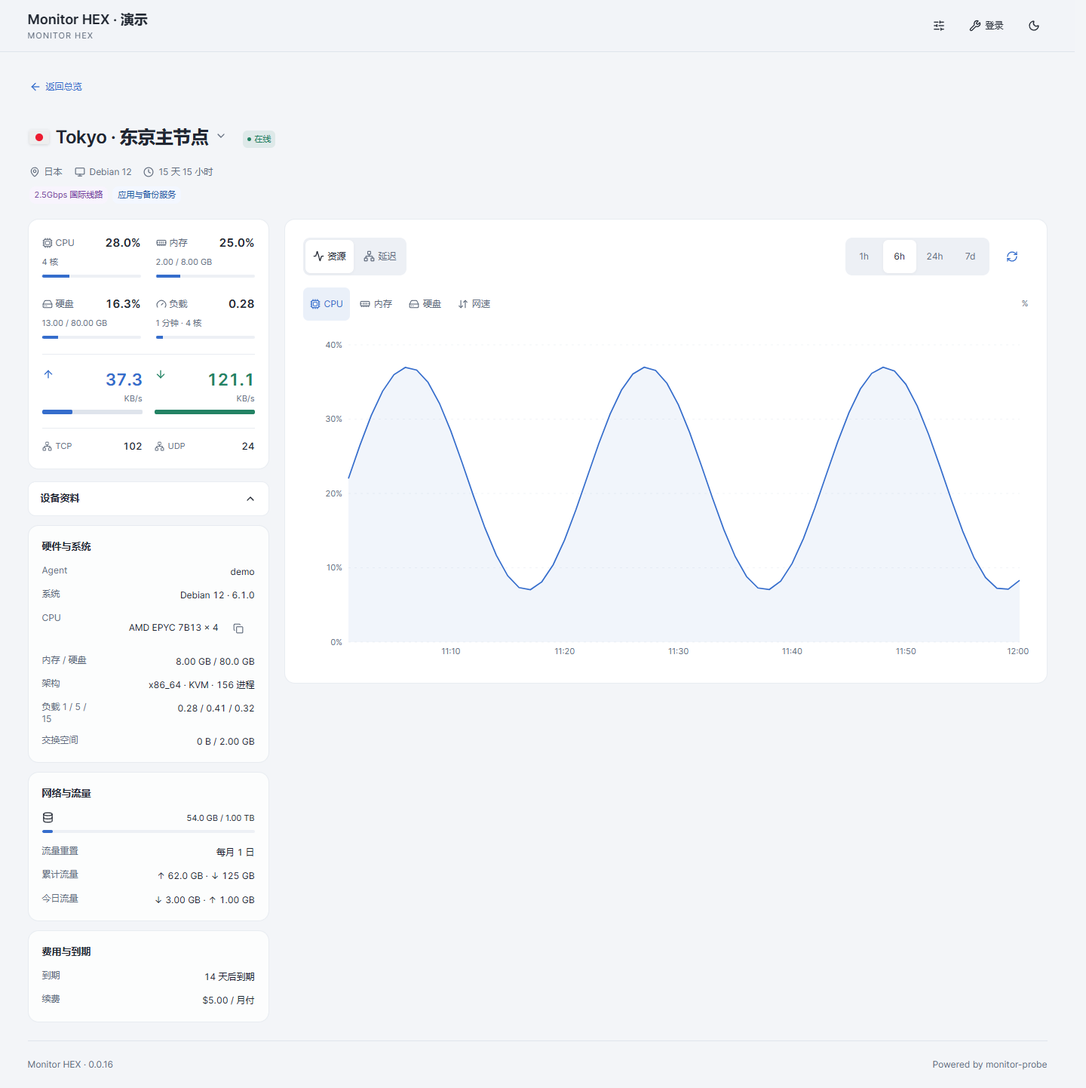
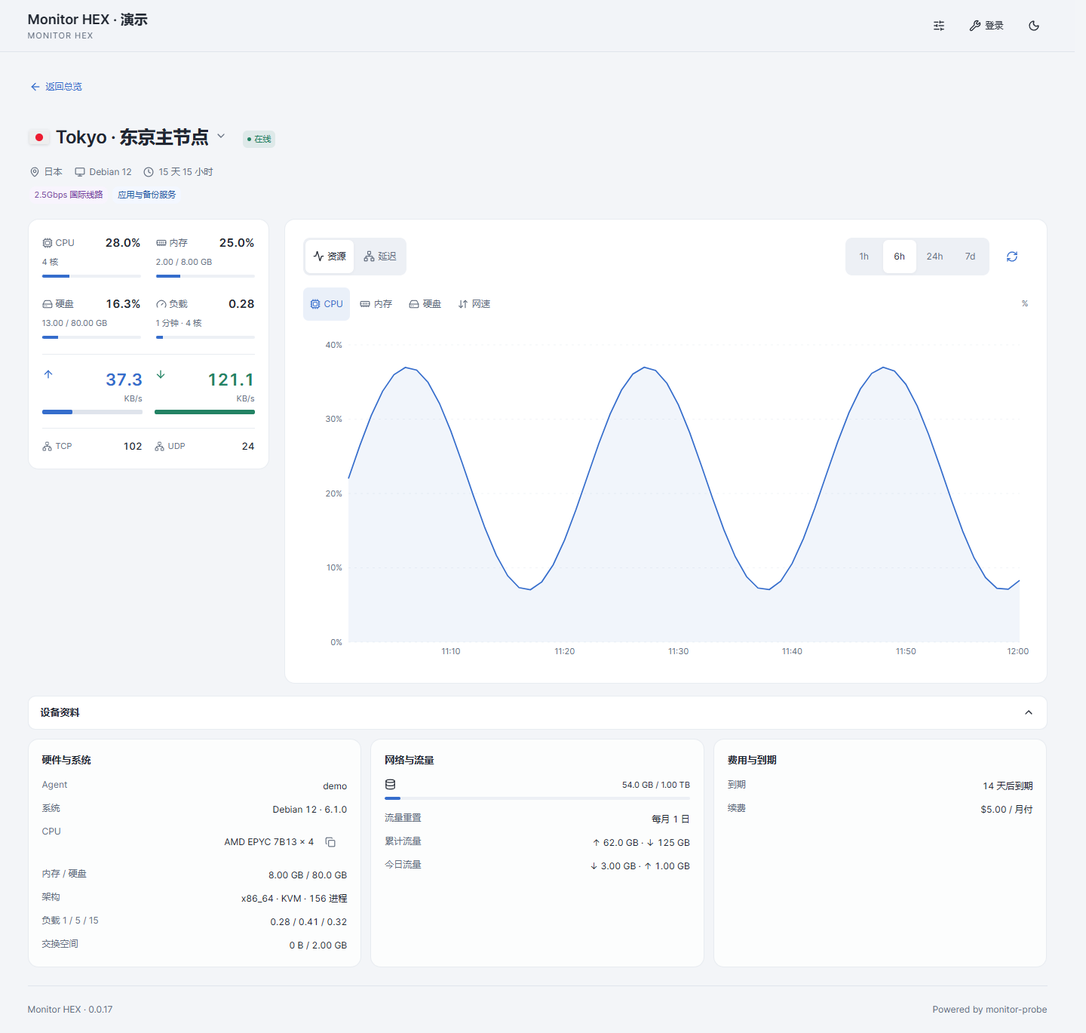
Release v0.0.17: refine detail layout and mobile chart interactions

diff --git a/src/components/NodeDetail.tsx b/src/components/NodeDetail.tsx
@@ -1,3 +1,4 @@
+import {ChartTooltip,useChartTooltip} from './ChartTooltip'
 import type {Preferences} from '@/lib/appearance'
 import {DetailIdentity,DetailLiveOverview} from './DetailOverview'
 import {DetailFacts} from './DetailFacts'
@@ -107,6 +108,9 @@ export function NodeDetail({ node, probe = "auto", nodes, onSwitch, detailInfoMo
     const [resourceMetric,setResourceMetric]=useState<ResourceMetricKey>(['cpu','mem_used','disk_used','network'].includes(initialMetric)?initialMetric:'cpu');
     const [ranges, setRanges] = useState({ resources:eventStart?eventRange:([1,6,24,168].includes(Number(params.get("rh")))?Number(params.get("rh")):6), latency:[1,6,24].includes(Number(params.get("lh")))?Number(params.get("lh")):6 });
     const hours = ranges[tab];
+    const {frame:tooltipFrame,dismiss:tooltipDismiss,onChartClick:tooltipClick}=useChartTooltip(`${node.id}:${hours}:${tab}`,compact);
+    const legend=useRef<HTMLDetailsElement>(null),[routeQuery,setRouteQuery]=useState(''),[routeOrder,setRouteOrder]=useState<number[]>([]);
+    useEffect(()=>{const outside=(e:PointerEvent)=>{if(legend.current&&!legend.current.contains(e.target as globalThis.Node))legend.current.open=false};document.addEventListener('pointerdown',outside);return()=>document.removeEventListener('pointerdown',outside)},[]);
     const [retry, setRetry] = useState(0);
     const [smooth, setSmooth] = useState(false);
     useEffect(()=>{if(location.hash === "#latency"){const frame=requestAnimationFrame(()=>document.getElementById("latency")?.scrollIntoView());return ()=>cancelAnimationFrame(frame)}},[]);
@@ -259,10 +263,10 @@ export function NodeDetail({ node, probe = "auto", nodes, onSwitch, detailInfoMo
       <div className="detail-history-body" data-history={tab}>
       {!data ? (<div className="history-loading" aria-label={tr("正在读取历史数据")} aria-busy="true"><Skeleton className="h-40 w-full"/></div>) : failed && !data.metrics?.length && !data.ping?.length ? (<p className="history-empty">{tr("暂无可用历史数据")}</p>) : tab === "latency" ? (pingSeries.length === 0 ? (<p className="py-8 text-center text-sm text-muted-foreground">{tr("这段时间没有延迟数据")}</p>) : (
         <div className="latency-view">
-            <details className="detail-probe-legend" onKeyDown={e=>{if(e.key==='Escape'){e.currentTarget.open=false;e.currentTarget.querySelector('summary')?.focus()}}}>
-              <summary>{tr("选择线路")}<span>{tr("已选 {0} / {1}",shownProbes.length,pingSeries.length)}</span><small className="selected-route-summary" title={shownProbes.map(s=>s.name).join(' · ')}>{shownProbes.length?shownProbes.slice(0,3).map(s=>s.name).join(' · '):tr("没有选中任何探测")}{shownProbes.length>3?' …':''}</small></summary>
+            <details ref={legend} className="detail-probe-legend" onToggle={e=>{if(e.currentTarget.open){setRouteQuery('');setRouteOrder([...visibleIds])}}} onKeyDown={e=>{if(e.key==='Escape'){e.currentTarget.open=false;e.currentTarget.querySelector('summary')?.focus()}}}>
+              <summary>{tr("选择线路")}<span>{tr("已选 {0} / {1}",shownProbes.length,pingSeries.length)}</span><small className="selected-route-summary" title={shownProbes.map(s=>s.name).join(' · ')}>{shownProbes.length?shownProbes.slice(0,2).map(s=>s.name).join(' · '):tr("没有选中任何探测")}{shownProbes.length>2?` +${shownProbes.length-2}`:''}</small></summary>
 
-              <div className="probe-options">{[...pingSeries].sort((a,b)=>Number(visibleIds.includes(b.id))-Number(visibleIds.includes(a.id))).map(s=>{
+              <div className="probe-options">{pingSeries.length>6&&<label className="route-search"><span>{tr("搜索线路")}</span><input aria-label={tr("搜索线路")} placeholder={tr("按名称搜索")} value={routeQuery} onChange={e=>setRouteQuery(e.target.value)}/></label>}{!pingSeries.some(s=>s.name.toLocaleLowerCase().includes(routeQuery.trim().toLocaleLowerCase()))&&<p>{tr("没有匹配的线路")}</p>}{[...pingSeries].filter(s=>s.name.toLocaleLowerCase().includes(routeQuery.trim().toLocaleLowerCase())).sort((a,b)=>Number(routeOrder.includes(b.id))-Number(routeOrder.includes(a.id))).map(s=>{
                 const shown=visibleIds.includes(s.id), latest=s.points.at(-1);
                 return <button key={s.id} aria-label={s.name} title={tr("丢包统计范围：{0} 小时",hours)} aria-pressed={shown} onMouseEnter={()=>setHighlightProbe(s.id)} onMouseLeave={()=>setHighlightProbe(null)} onFocus={()=>setHighlightProbe(s.id)} onBlur={()=>setHighlightProbe(null)} onClick={()=>setSelectedProbes(shown ? visibleIds.filter(id=>id!==s.id) : [...visibleIds,s.id])}>
                   <svg width="16" height="6" aria-hidden="true"><line x1="0" y1="3" x2="16" y2="3" stroke={style(s.id).stroke} strokeWidth="2"/></svg>
@@ -273,7 +277,7 @@ export function NodeDetail({ node, probe = "auto", nodes, onSwitch, detailInfoMo
               })}</div>
             </details>
 
-            <div className="detail-chart-frame text-muted-foreground">
+            <div className="detail-chart-frame text-muted-foreground" ref={tooltipFrame} onClickCapture={tooltipClick}>
               {shownProbes.length === 0 ? (<p className="py-8 text-center text-sm">{(selectedProbes?.length || selectedProbes === null && choice.probe !== "auto") ? tr("无该线路记录") : tr("没有选中任何探测")}</p>) : !shownProbes.some(s=>s.points.length) ? <p className="py-8 text-center text-sm">{tr("这段时间没有延迟数据")}</p> : (<ResponsiveContainer>
                   <ComposedChart data={pingRows}>
                     <CartesianGrid strokeDasharray="3 5" stroke="var(--border)" vertical={false}/>
@@ -281,7 +285,7 @@ export function NodeDetail({ node, probe = "auto", nodes, onSwitch, detailInfoMo
                     {/* Not anchored at zero: these lines live in a narrow band
                     far from it, and zero flattens every wobble. */}
                     <YAxis unit="ms" width={52} domain={["auto", "auto"]} {...AXIS}/>
-                    <Tooltip wrapperStyle={{pointerEvents:'auto'}} trigger={compact?"click":"hover"} allowEscapeViewBox={{x:false,y:false}} cursor={{stroke:"var(--border)",strokeDasharray:"3 4"}} isAnimationActive={false} labelFormatter={(ts) => new Date(Number(ts)).toLocaleString(locale())}
+                    <Tooltip content={props=><ChartTooltip {...props} compact={compact} dismiss={tooltipDismiss}/>} wrapperStyle={{pointerEvents:'auto'}} trigger={compact?"click":"hover"} allowEscapeViewBox={{x:false,y:false}} cursor={{stroke:"var(--border)",strokeDasharray:"3 4"}} isAnimationActive={false} labelFormatter={(ts) => new Date(Number(ts)).toLocaleString(locale())}
             // The line is drawn from what answered, so without this a
             // bucket that lost most of its packets reads as normal.
             // `dataKey` is `t7`/`s7`; the loss sits at `l7`.
@@ -300,7 +304,7 @@ export function NodeDetail({ node, probe = "auto", nodes, onSwitch, detailInfoMo
                     axis from 165-385 out to 140-420. */}
                     {shownProbes.length === 1 &&
                     shownProbes.map((s) => (<Area key={`band${s.id}`} dataKey={`b${s.id}`} stroke="none" fill={style(s.id).stroke} fillOpacity={0.10} isAnimationActive={false} tooltipType="none" legendType="none" connectNulls={false}/>))}
-                    {shownProbes.map((s) => (<Line key={s.id} dataKey={`${smooth ? "s" : "t"}${s.id}`} name={s.name} stroke={style(s.id).stroke} {...SERIES} strokeOpacity={highlightProbe!==null && visibleIds.includes(highlightProbe) && highlightProbe!==s.id ? 0.2 : 1} onMouseEnter={()=>setHighlightProbe(s.id)} onMouseLeave={()=>setHighlightProbe(null)} connectNulls={false}/>))}
+                    {shownProbes.map((s) => (<Line key={s.id} dataKey={`${smooth ? "s" : "t"}${s.id}`} name={s.name} stroke={style(s.id).stroke} {...SERIES} strokeOpacity={highlightProbe!==null && visibleIds.includes(highlightProbe) && highlightProbe!==s.id ? 0.2 : 1} onMouseEnter={()=>{if(!compact)setHighlightProbe(s.id)}} onMouseLeave={()=>{if(!compact)setHighlightProbe(null)}} connectNulls={false}/>))}
                     {/* Drag either handle to zoom into a stretch of the trend. */}
                     <Brush dataKey="ts" height={22} travellerWidth={8} tickFormatter={clockFor(hours)} fill="var(--muted)" className="fill-muted" stroke="var(--color-muted-foreground)" onChange={(r) => setZoom([r.startIndex ?? 0, r.endIndex ?? pingRows.length - 1])}/>
                   </ComposedChart>

diff --git a/tests/detail-balance.spec.ts b/tests/detail-balance.spec.ts
@@ -1,0 +1,47 @@
+import {test,expect} from '@playwright/test'
+import {nodes,metrics} from '../scripts/fixtures.mjs'
+async function setup(page:any,count=7,long=false){
+ await page.route('**/api/nodes',(r:any)=>r.fulfill({json:{nodes:[{...nodes()[0],name:long?'Tokyo 东京超长节点名称 '.repeat(16):'Tokyo',ipv6:'2001:db8:1234:5678:abcd:1234:5678:abcd'}]}}))
+ await page.route('**/api/nodes/*/metrics?*',(r:any)=>{const d=metrics();return r.fulfill({json:{...d,probes:Object.fromEntries(Array.from({length:count},(_,i)=>[i+1,`线路 Tokyo ${i+1}`])),ping:d.ping.flatMap(p=>Array.from({length:count},(_,i)=>({...p,task_id:i+1,latency:p.latency+i*10})))}})})
+ await page.goto('/node/1');await expect(page.locator('.recharts-area-curve')).toBeVisible();if(!long)await expect(page.getByRole('button',{name:'展开名称',exact:true})).toHaveCount(0)
+}
+for(const width of [900,1024,1440,1920])test(`facts span the desktop workspace at ${width}`,async({page})=>{
+ await page.setViewportSize({width,height:1000});await setup(page)
+ const facts=(await page.locator('.detail-information').boundingBox())!,workspace=(await page.locator('.detail-workspace').boundingBox())!,history=(await page.locator('.detail-history').boundingBox())!
+ expect(Math.abs(facts.width-workspace.width)).toBeLessThanOrEqual(1);expect(facts.y).toBeGreaterThanOrEqual(history.y+history.height)
+ expect(await page.locator('.detail-fact-groups').evaluate(el=>getComputedStyle(el).gridTemplateColumns.split(' ').length)).toBe(width>=1200?3:2)
+ expect(await page.locator('.detail-fact-groups>section').first().getAttribute('aria-label')).toBe('硬件与系统')
+ expect(await page.evaluate(()=>document.documentElement.scrollWidth<=innerWidth)).toBeTruthy()
+})
+for(const count of [6,7,20])test(`route search threshold, selection and dismissal with ${count}`,async({page})=>{
+ await page.setViewportSize({width:390,height:844});await setup(page,count);await page.getByRole('button',{name:'网络延迟',exact:true}).click()
+ const legend=page.locator('.detail-probe-legend'),summary=legend.locator('summary');await summary.click()
+ const search=page.getByRole('textbox',{name:'搜索线路',exact:true});if(count===6){await expect(search).toHaveCount(0);return}
+ await search.fill('tOKYo 7');await expect(legend.locator('.probe-options button')).toHaveCount(1);await expect(summary).toContainText('已选 1 /')
+ await legend.getByRole('button',{name:'线路 Tokyo 7',exact:true}).click();await expect(legend).toHaveAttribute('open','');await expect(legend.getByRole('button',{name:'线路 Tokyo 7',exact:true})).toBeFocused()
+ await search.fill('线路');await expect(search).toBeFocused();await expect(legend.locator('.probe-options button')).toHaveCount(count)
+ await search.fill('not-found');await expect(legend).toContainText('没有匹配的线路');await expect(summary).toContainText('已选 2 /')
+ await page.keyboard.press('Escape');await expect(summary).toBeFocused();await summary.click();await expect(search).toHaveValue('')
+ await search.fill('Tokyo 7');await page.getByRole('button',{name:'显示全部线路',exact:true}).click();await expect(summary).toContainText(`已选 ${count} / ${count}`);await expect(summary).toContainText(`+${count-2}`);await expect(legend).not.toHaveAttribute('open','')
+ await summary.click();await expect(search).toHaveValue('');await page.getByRole('button',{name:'隐藏全部线路',exact:true}).click();await expect(summary).toContainText(`已选 0 / ${count}`)
+})
+test('long title expands separately and copy expires without moving rows',async({page,context})=>{
+ await context.grantPermissions(['clipboard-read','clipboard-write']);await page.setViewportSize({width:320,height:844});await setup(page,7,true)
+ const name=page.locator('.node-title-text'),expand=page.getByRole('button',{name:'展开名称',exact:true});await expect(expand).toBeVisible();const h=(await name.boundingBox())!.height
+ await expand.click();expect((await name.boundingBox())!.height).toBeGreaterThan(h);await expect(page.getByRole('dialog')).toHaveCount(0);await page.getByRole('button',{name:'收起名称',exact:true}).click();expect((await name.boundingBox())!.height).toBe(h)
+ await page.locator('.detail-facts-toggle').click();const copy=page.getByRole('button',{name:'复制：IPv6',exact:true}),row=copy.locator('xpath=ancestor::dd');const height=(await row.boundingBox())!.height
+ await page.clock.install();await copy.click();await expect(row.getByRole('status')).toHaveText('已复制');expect(await page.evaluate(()=>navigator.clipboard.readText())).toBe('2001:db8:1234:5678:abcd:1234:5678:abcd');await page.clock.runFor(2001);await expect(row.getByRole('status')).toHaveCount(0,{timeout:3000});expect((await row.boundingBox())!.height).toBe(height)
+ await page.evaluate(()=>{let calls=0;Object.defineProperty(navigator.clipboard,'writeText',{configurable:true,value:()=>new Promise((resolve,reject)=>setTimeout(()=>++calls===1?reject(Error('denied')):resolve(undefined),300))})});await copy.click();await copy.click();await page.clock.runFor(301);await expect(row.getByRole('status')).toHaveText('已复制');expect((await row.boundingBox())!.height).toBe(height)
+})
+for(const width of [320,390])for(const tab of ['resources','latency'])test(`mobile ${width} ${tab} tooltip closes, reopens and stays bounded`,async({page})=>{
+ await page.setViewportSize({width,height:844});await setup(page,20)
+ if(tab==='latency'){await page.getByRole('button',{name:'网络延迟',exact:true}).click();await page.getByRole('button',{name:'显示全部线路',exact:true}).click();await expect(page.locator('.recharts-line-curve')).toHaveCount(20)}
+ const frame=page.locator('.detail-chart-frame');await frame.scrollIntoViewIfNeeded();const height=(await frame.boundingBox())!.height,tip=frame.locator('.recharts-tooltip-wrapper')
+ for(const x of [75,150,((await frame.boundingBox())!.width-30)]){await frame.click({position:{x,y:110}});await expect(tip).toBeVisible();const b=(await tip.boundingBox())!;expect(b.x).toBeGreaterThanOrEqual(0);expect(b.x+b.width).toBeLessThanOrEqual(width);const close=page.getByRole('button',{name:'关闭图表提示',exact:true});expect((await close.boundingBox())!.height).toBeGreaterThanOrEqual(44);await close.click();await expect(tip).toBeHidden()}
+ await frame.click({position:{x:180,y:110}});await expect(tip).toBeVisible();if(tab==='latency')expect(await tip.locator('.recharts-default-tooltip').evaluate(el=>el.scrollHeight>el.clientHeight)).toBeTruthy()
+ await page.locator('.detail-facts-toggle').click();await expect(tip).toBeHidden();await frame.click({position:{x:180,y:110}});await expect(tip).toBeVisible();await page.getByRole('button',{name:'24 小时',exact:true}).click();await expect(page.locator('.recharts-tooltip-wrapper')).toBeHidden();expect((await frame.boundingBox())!.height).toBe(height)
+})
+test('selecting a distant route preserves focus and list scroll',async({page})=>{
+ await page.setViewportSize({width:390,height:844});await setup(page,20);await page.getByRole('button',{name:'网络延迟',exact:true}).click();await page.locator('.detail-probe-legend>summary').click()
+ const options=page.locator('.probe-options'),last=options.getByRole('button',{name:'线路 Tokyo 20',exact:true});await last.scrollIntoViewIfNeeded();const scroll=await options.evaluate(el=>el.scrollTop);await last.click();await expect(last).toBeFocused();expect(Math.abs(await options.evaluate(el=>el.scrollTop)-scroll)).toBeLessThanOrEqual(1)
+})

diff --git a/src/components/DetailFacts.tsx b/src/components/DetailFacts.tsx
@@ -3,7 +3,7 @@ import type {Node} from '@/lib/api'
 import {liveMetrics} from '@/lib/freshness'
 import {tr} from '@/lib/i18n'
 import {bytes,osName,money,CYCLES,FOREVER,daysUntil} from '@/lib/format'
-import {useState} from 'react'
+import {useEffect,useRef,useState} from 'react'
 import {Database,Copy,Check,ChevronDown} from 'lucide-react'
 function Fact({ label, value, warning=false,copy=false }: {
     label: string;
@@ -12,11 +12,14 @@ function Fact({ label, value, warning=false,copy=false }: {
     value?: string | number | null;
 }) {
     const [notice,setNotice]=useState('');
+    const request=useRef(0),timer=useRef<ReturnType<typeof setTimeout>|undefined>(undefined);
+    useEffect(()=>()=>{request.current++;clearTimeout(timer.current)},[value]);
+    const copyValue=async()=>{const id=++request.current;clearTimeout(timer.current);setNotice('');try{await navigator.clipboard.writeText(String(value));if(id!==request.current)return;setNotice(tr('已复制'));timer.current=setTimeout(()=>setNotice(''),2000)}catch{if(id===request.current)setNotice(tr('复制失败，请手动选择文本'))}};
     if (value === null || value === undefined || value === "")
         return null;
     return (<div className="min-w-0">
       <dt className="text-xs text-muted-foreground">{label}</dt>
-      <dd className={`detail-fact text-sm ${warning?"detail-expiry-warning":""}`}>{value}{copy&&<span className="copy-control"><button className="copy-fact" aria-label={tr("复制：{0}",label)} title={tr("复制：{0}",label)} onClick={async()=>{try{await navigator.clipboard.writeText(String(value));setNotice(tr("已复制"))}catch{setNotice(tr("复制失败，请手动选择文本"))}}}>{notice===tr("已复制")?<Check size={14}/>:<Copy size={14}/>}</button>{notice&&<small role="status" className="copy-notice">{notice}</small>}</span>}</dd>
+      <dd className={`detail-fact text-sm ${warning?"detail-expiry-warning":""}`}>{value}{copy&&<span className="copy-control"><button className="copy-fact" aria-label={tr("复制：{0}",label)} title={tr("复制：{0}",label)} onClick={copyValue}>{notice===tr("已复制")?<Check size={14}/>:<Copy size={14}/>}</button>{notice&&<small role="status" className="copy-notice">{notice}</small>}</span>}</dd>
     </div>);
 }
 export function DetailFacts({node,mode,compact,onMode}:{node:Node;mode:Preferences['detailInfoMode'];compact:boolean;onMode:(mode:Preferences['detailInfoMode'])=>void}){
@@ -25,7 +28,17 @@ export function DetailFacts({node,mode,compact,onMode}:{node:Node;mode:Preferenc
  const monthly=node.traffic_mode==='up'?node.month_tx:node.traffic_mode==='down'?node.month_rx:node.traffic_mode==='max'?Math.max(node.month_rx,node.month_tx):node.month_rx+node.month_tx
  const days=daysUntil(node.expires_at)
  const expiryLabel=days===null?tr('未设到期'):days<0?tr('已过期 {0} 天',-days):tr('{0} 天后到期',days)
- return (      <div className="detail-information"><button className="detail-facts-toggle" aria-expanded={expanded} aria-controls="detail-fact-groups" onClick={()=>onMode(expanded?'collapsed':'expanded')}><span>{tr("设备资料")}</span><ChevronDown size={16}/></button><div id="detail-fact-groups" className="detail-fact-groups" hidden={!expanded}><section aria-label={tr("网络与流量")}><h3>{tr("网络与流量")}</h3>
+ return (      <div className="detail-information"><button className="detail-facts-toggle" aria-expanded={expanded} aria-controls="detail-fact-groups" onClick={()=>onMode(expanded?'collapsed':'expanded')}><span>{tr("设备资料")}</span><ChevronDown size={16}/></button><div id="detail-fact-groups" className="detail-fact-groups" hidden={!expanded}><section aria-label={tr("硬件与系统")}><h3>{tr("硬件与系统")}</h3>
+      <dl className="detail-facts">
+        <Fact label="Agent" value={node.agent_version}/><Fact label={tr("系统")} value={[osName(node.os), node.kernel].filter(Boolean).join(" · ")}/>
+        <Fact copy label="CPU" value={node.cpu_name ? `${node.cpu_name} × ${node.cpu_cores}` : tr("{0} 核", node.cpu_cores)}/>
+        <Fact label={tr("内存 / 硬盘")} value={`${bytes(node.mem_total)} / ${bytes(node.disk_total)}`}/>
+        <Fact label={tr("架构")} value={[node.arch, node.virt !== "none" ? node.virt : "", m ? tr("{0} 进程", m.procs) : ""]
+            .filter(Boolean)
+            .join(" · ")}/>
+        <Fact label={tr("负载 1 / 5 / 15")} value={m?m.load.map(v=>v.toFixed(2)).join(" / "):"—"}/><Fact label={tr("交换空间")} value={m?`${bytes(m.swap_used)} / ${bytes(m.swap_total)}`:"—"}/>
+      </dl>
+        </section><section aria-label={tr("网络与流量")}><h3>{tr("网络与流量")}</h3>
       <div className="detail-quota" title={tr("本月用量")}><div><Database size={15}/><span>{bytes(monthly)} / {node.traffic_limit > 0 ? bytes(node.traffic_limit) : FOREVER}</span></div>{node.traffic_limit > 0 && <progress aria-label={tr("本月用量")} max={node.traffic_limit} value={Math.min(Math.max(0,monthly),node.traffic_limit)}/>}</div>
       <dl className="detail-facts">
         <Fact copy label="IPv4" value={node.ipv4}/><Fact copy label="IPv6" value={node.ipv6}/><Fact label={tr("流量重置")} value={Number.isInteger(node.traffic_reset_day) && node.traffic_reset_day >= 1 && node.traffic_reset_day <= 31 ? tr("每月 {0} 日",node.traffic_reset_day) : tr("未知")}/>
@@ -40,15 +53,5 @@ export function DetailFacts({node,mode,compact,onMode}:{node:Node;mode:Preferenc
 
         ].filter(Boolean).join(" · ")}/>
       </dl>
-        </section>        <section aria-label={tr("硬件与系统")}><h3>{tr("硬件与系统")}</h3>
-      <dl className="detail-facts">
-        <Fact label="Agent" value={node.agent_version}/><Fact label={tr("系统")} value={[osName(node.os), node.kernel].filter(Boolean).join(" · ")}/>
-        <Fact copy label="CPU" value={node.cpu_name ? `${node.cpu_name} × ${node.cpu_cores}` : tr("{0} 核", node.cpu_cores)}/>
-        <Fact label={tr("内存 / 硬盘")} value={`${bytes(node.mem_total)} / ${bytes(node.disk_total)}`}/>
-        <Fact label={tr("架构")} value={[node.arch, node.virt !== "none" ? node.virt : "", m ? tr("{0} 进程", m.procs) : ""]
-            .filter(Boolean)
-            .join(" · ")}/>
-        <Fact label={tr("负载 1 / 5 / 15")} value={m?m.load.map(v=>v.toFixed(2)).join(" / "):"—"}/><Fact label={tr("交换空间")} value={m?`${bytes(m.swap_used)} / ${bytes(m.swap_total)}`:"—"}/>
-      </dl>
-        </section></div></div>)
+        </section>        </div></div>)
 }

diff --git a/src/components/ResourceHistory.tsx b/src/components/ResourceHistory.tsx
@@ -1,3 +1,4 @@
+import {ChartTooltip,useChartTooltip} from './ChartTooltip'
 import {useMemo} from 'react'
 import {Area,CartesianGrid,ComposedChart,Line,ResponsiveContainer,Tooltip,XAxis,YAxis} from 'recharts'
 import {Cpu,MemoryStick,HardDrive,ArrowDownUp} from 'lucide-react'
@@ -10,6 +11,7 @@ const SERIES={dot:false as const,strokeWidth:1.7,isAnimationActive:false,connect
 const options=[{key:'cpu',label:'CPU',Icon:Cpu},{key:'mem_used',label:'内存',Icon:MemoryStick},{key:'disk_used',label:'硬盘',Icon:HardDrive},{key:'network',label:'网速',Icon:ArrowDownUp}] as const
 export type ResourceMetricKey=(typeof options)[number]['key']
 export function ResourceHistory({rows,node,hours,metric,onMetric:setMetric,compact}:{compact:boolean;rows:Row[];node:Node;hours:number;metric:ResourceMetricKey;onMetric:(key:ResourceMetricKey)=>void}){
+ const {frame:tooltipFrame,dismiss:tooltipDismiss,onChartClick:tooltipClick}=useChartTooltip(`${node.id}:${hours}:${metric}`,compact)
  const network=metric==='network'
  const top=useMemo(()=>metric==='mem_used'?node.mem_total:metric==='disk_used'?node.disk_total:metric==='cpu'?axisTop(Math.max(0,...rows.map(r=>r.cpu??0)),4,10,100):axisTop(Math.max(0,...rows.flatMap(r=>[r.net_rx??0,r.net_tx??0])),1024,1024),[metric,node.mem_total,node.disk_total,rows])
  const color=metric==='mem_used'?'var(--color-chart-3)':metric==='disk_used'?'var(--color-chart-4)':'var(--color-chart-1)'
@@ -19,12 +21,12 @@ export function ResourceHistory({rows,node,hours,metric,onMetric:setMetric,compa
   <div className="resource-chart-controls"><div className="resource-chart-tabs" role="group" aria-label={tr('资源指标')}>{options.map(({key,label,Icon})=><button key={key} aria-pressed={metric===key} onClick={()=>setMetric(key)}><Icon size={14}/>{tr(label)}</button>)}</div>
    <span className="resource-chart-unit">{network?<><span className="upload">↑ {tr('上行')}</span><span className="download">↓ {tr('下行')}</span></>:metric==='cpu'?'%':bytes(top)}</span>
   </div>
-  <div className="resource-chart-panel" aria-label={tr(label)}><div className="detail-chart-frame">
+  <div className="resource-chart-panel" aria-label={tr(label)}><div className="detail-chart-frame" ref={tooltipFrame} onClickCapture={tooltipClick}>
    <ResponsiveContainer><ComposedChart data={data} margin={{top:16,right:12,bottom:0,left:0}}>
     <CartesianGrid strokeDasharray="3 5" stroke="var(--border)" vertical={false}/>
     <XAxis dataKey="ts" type="number" domain={['dataMin','dataMax']} ticks={rows.length?timeTicks(rows[0].ts,rows.at(-1)!.ts):undefined} tickFormatter={clockFor(hours)} minTickGap={hours>24?72:40} {...AXIS}/>
     <YAxis domain={[0,Math.max(top,1)]} ticks={quarters(Math.max(top,1))} tickFormatter={metric==='cpu'?v=>`${v}%`:axisBytes} unit={network?'/s':undefined} width={60} {...AXIS}/>
-    <Tooltip wrapperStyle={{pointerEvents:'auto'}} trigger={compact?"click":"hover"} allowEscapeViewBox={{x:false,y:false}} cursor={{stroke:"var(--border)",strokeDasharray:"3 4"}} isAnimationActive={false} labelFormatter={ts=>new Date(Number(ts)).toLocaleString(locale())} formatter={v=>network?rate(Number(v)):metric==='cpu'?`${Number(v).toFixed(1)}%`:bytes(Number(v))}/>
+    <Tooltip content={props=><ChartTooltip {...props} compact={compact} dismiss={tooltipDismiss}/>} wrapperStyle={{pointerEvents:'auto'}} trigger={compact?"click":"hover"} allowEscapeViewBox={{x:false,y:false}} cursor={{stroke:"var(--border)",strokeDasharray:"3 4"}} isAnimationActive={false} labelFormatter={ts=>new Date(Number(ts)).toLocaleString(locale())} formatter={v=>network?rate(Number(v)):metric==='cpu'?`${Number(v).toFixed(1)}%`:bytes(Number(v))}/>
     {network?<><Line dataKey="net_tx" name={tr('上行')} stroke="var(--upload)" {...SERIES}/><Line dataKey="net_rx" name={tr('下行')} stroke="var(--download)" {...SERIES}/></>:<Area dataKey={metric} name={tr(label)} stroke={color} fill={color} fillOpacity={.07} {...SERIES}/>}
    </ComposedChart></ResponsiveContainer>
   </div></div>

diff --git a/src/styles/detail-reading.css b/src/styles/detail-reading.css
@@ -16,7 +16,7 @@
 .detail-facts-toggle {display:flex;align-items:center;justify-content:space-between;width:100%;gap:12px;padding:12px 16px;border:1px solid var(--detail-line);border-radius:10px;background:var(--card);font-size:13px;font-weight:600;text-align:left}
 .detail-facts-toggle[aria-expanded=true] {margin-bottom:12px}
 .detail-facts-toggle[aria-expanded=true] svg {transform:rotate(180deg)}
-.detail-fact-groups section:last-child {order:-1}
+
 .detail-information h3 {margin-bottom:14px}
 .detail-facts>div {align-items:start}
 .detail-facts dd {position:relative}
@@ -86,3 +86,28 @@
  .resource-chart-controls {align-content:space-between}
  .detail-latency-tools .detail-smooth {font-size:12px}
 }
+
+/* Full-width facts keep long machine identifiers out of the overview column. */
+@media(min-width:900px){
+ .detail-workspace {grid-template-areas:"live history" "facts facts";grid-template-rows:auto auto;align-items:start}
+ .detail-fact-groups {grid-template-columns:repeat(2,minmax(0,1fr))}
+}
+@media(min-width:1200px){.detail-fact-groups {grid-template-columns:repeat(3,minmax(0,1fr))}}
+.node-picker-trigger .node-title-text {display:-webkit-box;-webkit-box-orient:vertical;-webkit-line-clamp:2;overflow:hidden;white-space:normal;overflow-wrap:anywhere}
+.node-picker-trigger .node-title-text.expanded {display:block;-webkit-line-clamp:unset}
+.detail-title-expand {min-height:44px;padding:0 8px;font-size:12px;color:var(--tone);border-radius:6px}
+.detail-title-expand:hover {background:var(--muted)}
+.detail-facts dd:has(.copy-control) {padding-right:44px;min-height:44px;display:flex;align-items:center;overflow-wrap:anywhere}
+.detail-facts dd>.copy-control {position:absolute;right:0;top:0;margin:0}
+.chart-tooltip {position:relative;max-width:min(280px,65vw)}
+.chart-tooltip:has(.chart-tooltip-close) {padding-top:44px;background:var(--card);border:1px solid var(--border);border-radius:8px;overflow:hidden;box-shadow:0 4px 16px #0002}
+.chart-tooltip-close {position:absolute;right:0;top:0;width:44px;height:44px;display:grid;place-items:center;z-index:1}
+.chart-tooltip .recharts-default-tooltip {overflow-wrap:anywhere;white-space:normal!important}
+.chart-tooltip:has(.chart-tooltip-close) .recharts-default-tooltip {max-height:calc(var(--plot-height) - 76px);border:0!important}
+.route-search {display:grid;gap:6px;position:sticky;top:-8px;background:var(--card);z-index:1;padding:4px 0 8px;font-size:12px}
+.route-search input {width:100%;min-width:0;min-height:44px;padding:8px;border:1px solid var(--border);border-radius:6px;background:var(--background)}
+.probe-options>p {padding:12px;color:var(--muted-foreground);font-size:12px}
+.detail-facts dd:has(.copy-control) {justify-content:flex-end;text-align:right}
+@media(min-width:900px){.detail-facts>div {grid-template-columns:96px minmax(0,1fr)}}
+
+@media(max-width:899px){.detail-chart-frame[data-tooltip-open="false"] .recharts-tooltip-wrapper {visibility:hidden!important;pointer-events:none!important}}

diff --git a/src/components/NodePicker.tsx b/src/components/NodePicker.tsx
@@ -7,8 +7,11 @@ import {Status} from './NodeIdentity'
 export function NodePicker({node,nodes,onSwitch}:{node:Node;nodes:Node[];onSwitch:(id:number)=>void}){
  const [open,setOpen]=useState(false),[query,setQuery]=useState('');const trigger=useRef<HTMLButtonElement>(null),dialog=useRef<HTMLDialogElement>(null)
  useEffect(()=>{if(!open)return;const el=dialog.current!,button=trigger.current!,rect=button.getBoundingClientRect();el.style.left=`${Math.max(12,Math.min(rect.left,innerWidth-432))}px`;el.style.top=`${Math.min(rect.bottom+8,innerHeight-320)}px`;const overflow=document.body.style.overflow;el.showModal();document.body.style.overflow='hidden';return()=>{el.close();document.body.style.overflow=overflow;if(button.isConnected)button.focus({preventScroll:true})}},[open])
+ const [titleExpanded,setTitleExpanded]=useState(false),[titleLong,setTitleLong]=useState(false);
+ const titleText=useRef<HTMLSpanElement>(null);
+ useEffect(()=>{const el=titleText.current;if(!el)return;const measure=()=>{if(!titleExpanded)setTitleLong(el.scrollHeight>el.clientHeight+1)};measure();const observer=new ResizeObserver(measure);observer.observe(el);return()=>observer.disconnect()},[node.name,titleExpanded]);
  const matches=nodes.filter(n=>`${n.name} ${n.country}`.toLocaleLowerCase().includes(query.toLocaleLowerCase().trim()))
- return <><h2><button ref={trigger} className="node-picker-trigger" aria-label={tr('切换节点')} aria-haspopup="dialog" aria-expanded={open} onClick={()=>{setQuery('');setOpen(true)}}>{node.country&&<Flag code={node.country}/>}<span>{node.name}</span><ChevronDown size={16}/></button></h2>
+ return <><h2><button ref={trigger} className="node-picker-trigger" aria-label={tr('切换节点')} aria-describedby={`node-title-${node.id}`} aria-haspopup="dialog" aria-expanded={open} onClick={()=>{setQuery('');setOpen(true)}}>{node.country&&<Flag code={node.country}/>}<span id={`node-title-${node.id}`} ref={titleText} className={`node-title-text${titleExpanded?" expanded":""}`} title={node.name}>{node.name}</span><ChevronDown size={16}/></button></h2>{titleLong&&<button className="detail-title-expand" aria-expanded={titleExpanded} onClick={()=>setTitleExpanded(v=>!v)}>{titleExpanded?tr("收起名称"):tr("展开名称")}</button>}
  {open&&<dialog ref={dialog} className="node-picker" aria-label={tr('切换节点')} onCancel={()=>setOpen(false)} onClick={e=>{if(e.target===e.currentTarget){const r=e.currentTarget.getBoundingClientRect();if(e.clientX<r.left||e.clientX>r.right||e.clientY<r.top||e.clientY>r.bottom)setOpen(false)}}}>
  <div className="node-picker-heading"><strong>{tr('切换节点')}</strong><button aria-label={tr('关闭')} onClick={()=>setOpen(false)}><X size={18}/></button></div>
  {nodes.length>8&&<label className="node-picker-search"><Search size={15}/><input aria-label={tr('搜索节点')} placeholder={tr('搜索节点')} value={query} onChange={e=>setQuery(e.target.value)}/></label>}

diff --git a/src/components/ChartTooltip.tsx b/src/components/ChartTooltip.tsx
@@ -1,0 +1,16 @@
+import {useEffect,useRef} from 'react'
+import {DefaultTooltipContent,type TooltipContentProps,type TooltipValueType} from 'recharts'
+import {X} from 'lucide-react'
+import {tr} from '@/lib/i18n'
+export function useChartTooltip(resetKey:string,compact:boolean){
+ const frame=useRef<HTMLDivElement>(null);
+ // This transient attribute only controls the tooltip layer. Keeping it outside
+ // chart state avoids resetting Recharts' in-flight click/sample selection.
+ const dismiss=()=>frame.current?.setAttribute('data-tooltip-open','false');
+ useEffect(()=>{const el=frame.current;if(el)el.setAttribute('data-tooltip-open','false')},[resetKey,compact]);
+ useEffect(()=>{if(!compact)return;const outside=(e:PointerEvent)=>{if(!frame.current?.contains(e.target as Node))frame.current?.setAttribute('data-tooltip-open','false')};document.addEventListener('pointerdown',outside);return()=>document.removeEventListener('pointerdown',outside)},[compact]);
+ return {frame,dismiss,onChartClick:(e:React.MouseEvent)=>{if(!(e.target as Element).closest('.chart-tooltip'))frame.current?.setAttribute('data-tooltip-open','true')}};
+}
+export function ChartTooltip(props:TooltipContentProps<TooltipValueType,string|number>&{dismiss:()=>void;compact:boolean}){
+ return <div className="chart-tooltip">{props.compact&&<button className="chart-tooltip-close" aria-label={tr('关闭图表提示')} onClick={props.dismiss}><X size={16}/></button>}<DefaultTooltipContent {...props}/></div>
+}

diff --git a/src/lib/en.ts b/src/lib/en.ts
@@ -1,4 +1,10 @@
 export const english: Record<string, string> = {
+"关闭图表提示":"Close chart tooltip",
+"展开名称":"Expand name",
+"收起名称":"Collapse name",
+"搜索线路":"Search routes",
+"按名称搜索":"Search by name",
+"没有匹配的线路":"No matching routes",
 "详情页": "Detail page",
 "设备资料展开方式": "Device information display",
 "自动：手机折叠，桌面展开": "Auto: collapse on mobile",

diff --git a/REVIEW-v0.0.17.md b/REVIEW-v0.0.17.md
@@ -1,0 +1,47 @@
+# v0.0.17 详情布局与交互验收
+
+2026-09-21。基线 v0.0.16（b0fc04c）。按用户授权实施、验收并直接发布。
+
+## 落地结果
+
+1. 900px 起资料区移至桌面完整底栏；900–1199px 两列，1200px 起三列。硬件、网络、费用的 DOM 顺序与视觉顺序一致。手机顺序和 detailInfoMode 偏好继续保留。
+2. 手机资源与延迟提示增加 44×44px 关闭按钮，点击图表外部也会关闭，切换范围/指标/节点不会沿用旧提示。多线路内容内部滚动，未增加阻止页面滚动的触摸处理。修复窄屏点击曲线时被悬浮高亮更新打断的首次取点问题；桌面继续保留悬浮高亮。
+3. 线路超过 6 条时显示搜索，支持中英文名称、不区分英文大小写。搜索仅过滤列表，批量按钮明确作用于全部线路；摘要为前两个名称加 +N。打开时按已选优先排序，面板打开期间顺序固定，避免选择底部线路后滚动跳动。重新打开清空查询并重新排序。Escape 返回 summary 焦点，外部点击只关闭面板。
+4. 复制按钮固定在资料行右侧，完整值可复制。成功反馈 2 秒后消失，失败显示说明并可再次点击；请求序号防止迟到结果覆盖新反馈，卸载和值变化时清理计时器并作废请求。
+5. 超长名称默认限制两行，实际溢出才出现独立展开按钮；按钮与节点切换分离，完整名称作为切换按钮的可访问描述。切换节点通过既有 key 重置展开状态。
+6. 可选摘要暂不加入：320px 网络图试排中，最新值、样本均值、样本峰值连同上下行与单位需要三行；固定画布内挤占刻度，增加高度又破坏现有阅读节奏。本次只作视觉原型，不引入统计逻辑或新增设置。后续如增加独立分析模式，再做统计正确性验收。
+
+## 验收
+
+| 项目 | 结果 |
+| --- | --- |
+| lint、业务测试、生产构建、打包 | 通过；425 处字面量翻译检查通过 |
+| Chrome | 110/110；含本轮 13 项用例 |
+| Edge | 46/46；详情布局、详情阅读、稳定性、导航 |
+| 宽度矩阵 | 320、390、430、720、899、900、1024、1440、1920px；中英文、深浅色、四种资源样式分层覆盖 |
+| 桌面资料 | 900、1024、1440、1920px 检查整行宽度、列数、排列顺序及无横向溢出 |
+| 手机提示 | 320/390px 两种图表左中右点选，关闭、再打开、点外部、范围切换、20 条提示内部滚动；按钮至少 44px，图高不变 |
+| 线路 | 既有 1/3/20 条及新增 6/7/20 条；中英文搜索、无结果、全选/全隐藏、清空搜索、Escape、焦点、摘要；底部线路多选滚动偏差不超过 1px |
+| 长名称与复制 | 长名称展开/收起独立于节点切换，短名称无按钮；IPv6 剪贴板完整，2 秒反馈消失，重复点击，成功/失败行高不变 |
+| 既有行为 | 偏好持久化、导入导出、899/900px 边界、返回节点定位、失败保留曲线、迟到响应、缺失样本与零值、首页卡片/地图回归通过 |
+
+测试是分层覆盖，不是所有组合的笛卡尔积。浏览器回归使用本地演示数据和模拟故障。复制 2 秒时效使用 Playwright 可控时钟验证，避免并行浏览器后台计时节流造成假失败。
+
+## 视觉证据
+
+- [桌面详情](screenshots/detail-light.png)
+- [手机浅色详情](screenshots/v0.0.17/mobile-detail-light.png)
+- [手机深色详情](screenshots/v0.0.17/mobile-detail-dark.png)
+- [线路搜索](screenshots/v0.0.17/routes-search.png)
+- [手机多线路提示](screenshots/v0.0.17/mobile-tooltip.png)
+- [桌面改前改后](screenshots/v0.0.17/compare-desktop-detail.png)
+- [手机改前改后](screenshots/v0.0.17/compare-mobile-detail.png)
+- [摘要试排（未采用）](screenshots/v0.0.17/summary-trial.png)
+
+scripts/capture-detail-balance.mjs 从固定演示数据生成基线与当前构建截图。README 的 12 张预览均为 v0.0.17，旧版和对比图只用于历史验收，不放入 README。
+
+## 发布边界
+
+短名 hex；更新地址 https://github.com/8bitNull/Monitor-Hex。安装附件为 theme.tar.gz 与 theme.tar.gz.sha256。
+
+未验证实体手机、iOS Safari、系统软键盘、动态地址栏和真实线上部署；桌面浏览器手机视口测试不替代这些验证。本次未修改后端接口或新增用户偏好字段。

diff --git a/ACCEPTANCE.md b/ACCEPTANCE.md
@@ -1,10 +1,10 @@
-# Monitor HEX 0.0.16 检查说明
+# Monitor HEX 0.0.17 检查说明
 
 当前源码的检查入口如下。测试使用本地演示数据，不代表已完成真实服务器部署验证。
 
 ## 最近验证
 
-2026-09-21：v0.0.16 静态检查、业务测试、418 处字面量翻译检查与生产构建通过。Chrome 全量 97/97，Edge 详情阅读、稳定性与导航 33/33。完整记录见 REVIEW-v0.0.16.md。
+2026-09-21：v0.0.17 静态检查、业务测试、425 处字面量翻译检查与生产构建通过。Chrome 全量 110/110，Edge 详情布局、阅读、稳定性与导航 46/46。完整记录见 REVIEW-v0.0.17.md。
 
 ## 自动检查
 
@@ -22,7 +22,9 @@ npm run test:e2e
 
 ## 浏览器检查范围
 
-58 项用例按功能组织：
+110 项用例按功能组织：
+
+- `detail-balance.spec.ts`：桌面底栏、搜索阈值、选中语义、长名称、复制时效、提示关闭与线路列表滚动稳定性。
 
 - `detail-resources.spec.ts`：资源图切换、刷新、窄屏、图形风格、空数据、失败重试、离线与采样间断。
 - `detail-routes.spec.ts`：线路继承、比较、详情布局、缺失线路和长文本。
@@ -57,4 +59,4 @@ npm run test:e2e
 
 历史范围依赖后端实际保留的数据。高负载事件是浏览器本地记录，仅覆盖页面监测期间，不等同于服务端持续告警。线上数据与后端兼容性仍需部署后核对。
 
-手机测试采用浏览器视口模拟，未进行实体手机或 iOS Safari 验证。完整本版验收记录见 `REVIEW-v0.0.16.md`。
+手机测试采用浏览器视口模拟，未进行实体手机或 iOS Safari 验证。完整本版验收记录见 `REVIEW-v0.0.17.md`。

diff --git a/CHANGELOG.md b/CHANGELOG.md
@@ -1,5 +1,15 @@
 # Monitor HEX 当前版本
 
+## 0.0.17
+
+- 桌面设备资料移至完整底栏，按宽度显示两列或三列，手机继续保留自动折叠偏好。
+- 手机资源和延迟图表增加 44px 关闭按钮，支持点外部关闭、范围切换清除提示和多线路内部滚动。
+- 超过 6 条线路显示名称搜索；搜索不改变选择，批量操作覆盖全部线路，摘要展示两个名称和剩余数量。
+- 线路在面板打开时按已选优先排列，多选期间保持顺序与滚动位置，支持 Escape 和焦点恢复。
+- 超长名称最多两行并提供独立展开入口；复制控件统一对齐，成功反馈 2 秒后消失，处理重复点击与卸载后的迟到结果。
+- 可选图表摘要经 320px 网络图试排后暂不加入，优先保留清晰的绘图区。
+- 验收与发布记录见 REVIEW-v0.0.17.md；README 只展示当前版本截图。
+
 ## 0.0.16
 
 - 精修详情顶部：地区、系统和在线时长归入辅助行；Agent 版本移至硬件资料，长备注支持展开与收起。
